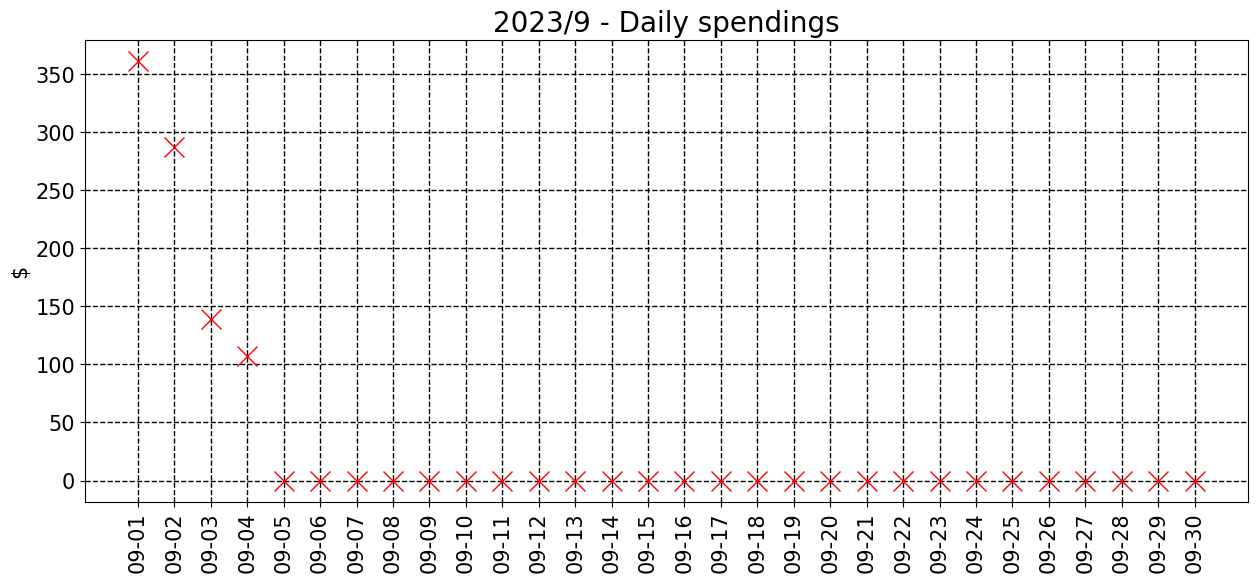
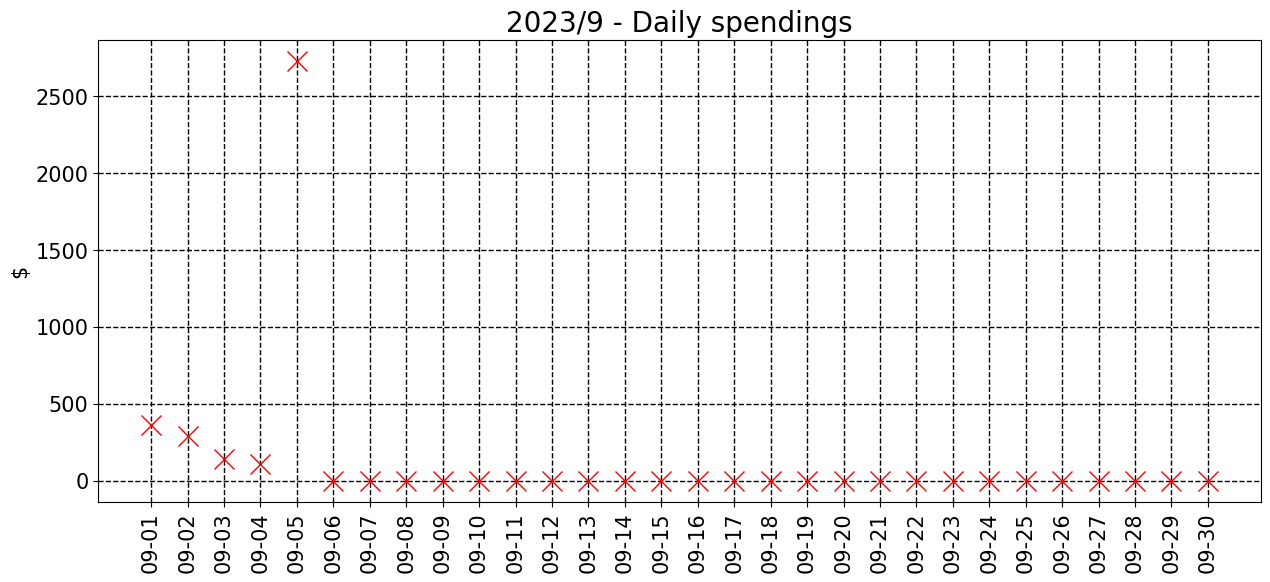
commit from python

Changed region(s): [[0.031, 0.0, 0.9928, 0.9897]]

diff --git a/README.md b/README.md
@@ -7,7 +7,7 @@ __________________________________
 <sub><sup>
 | Spent | Avg daily | End of month projection | Spent since 2023/7 |
 |---|---|---|---|
-| $895.0  |  $223.7  | $6711.0  |  $6120.0  |
+| $3625.0  |  $517.8  | $15534.0  |  $8849.0  |
 </sub></sup>
 __________________________________
 ![graph_9_sum](graph_9_sum.png)
